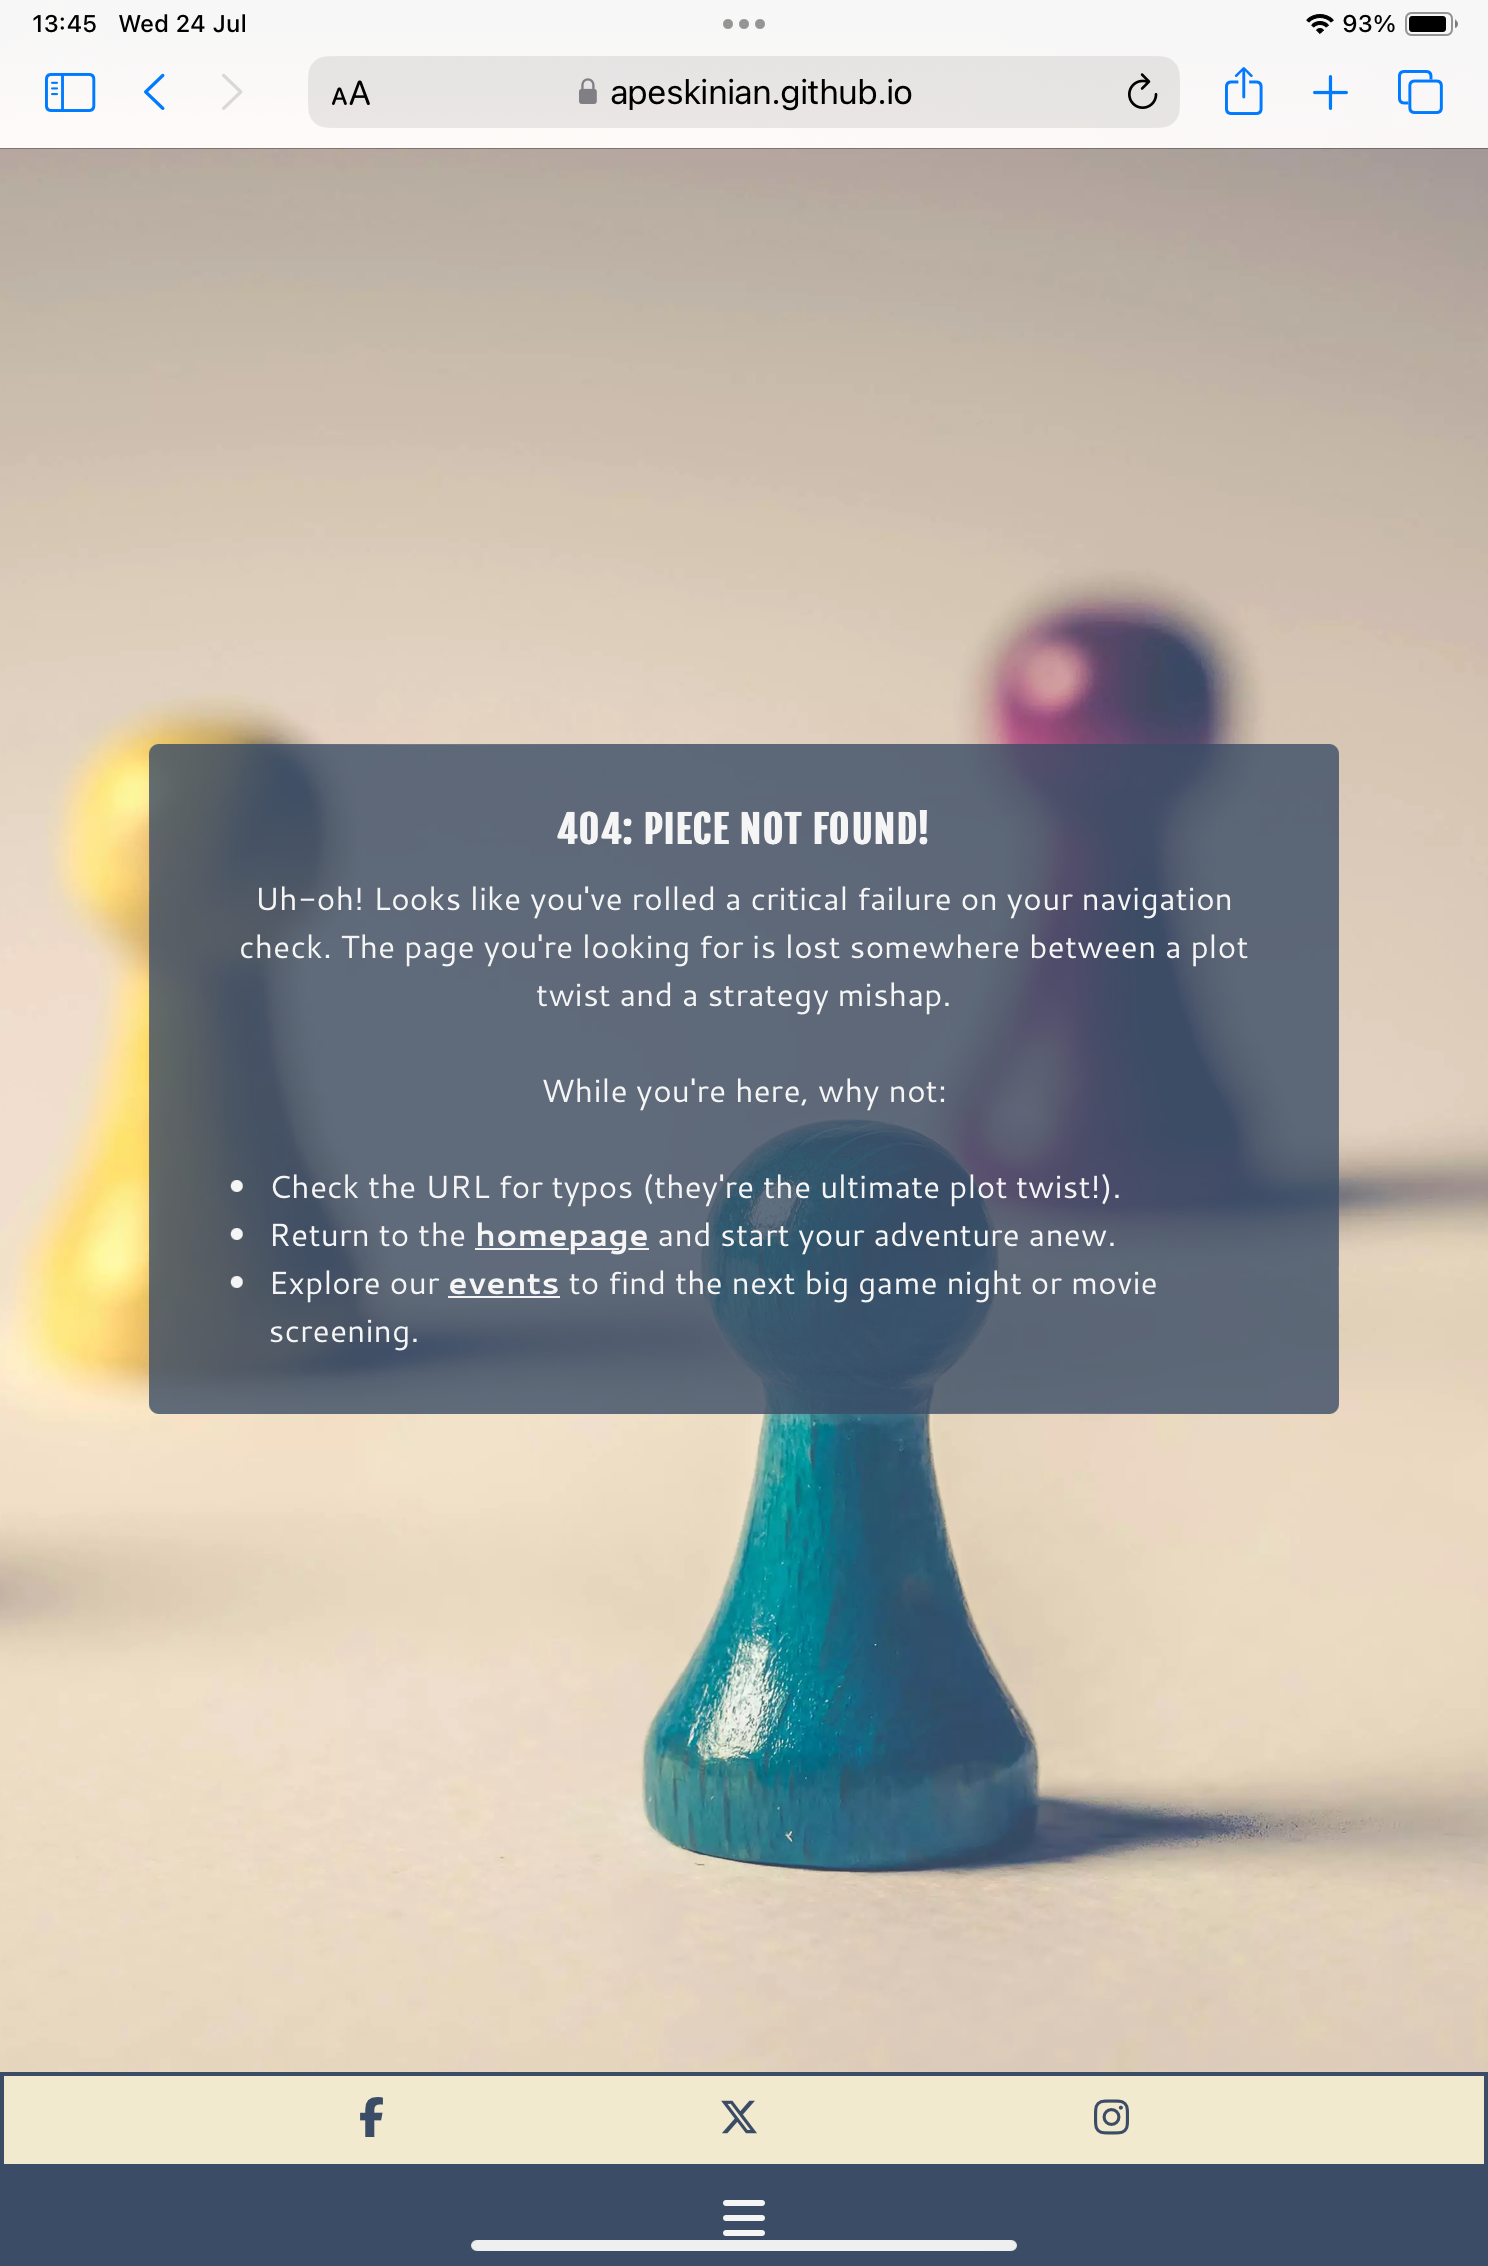
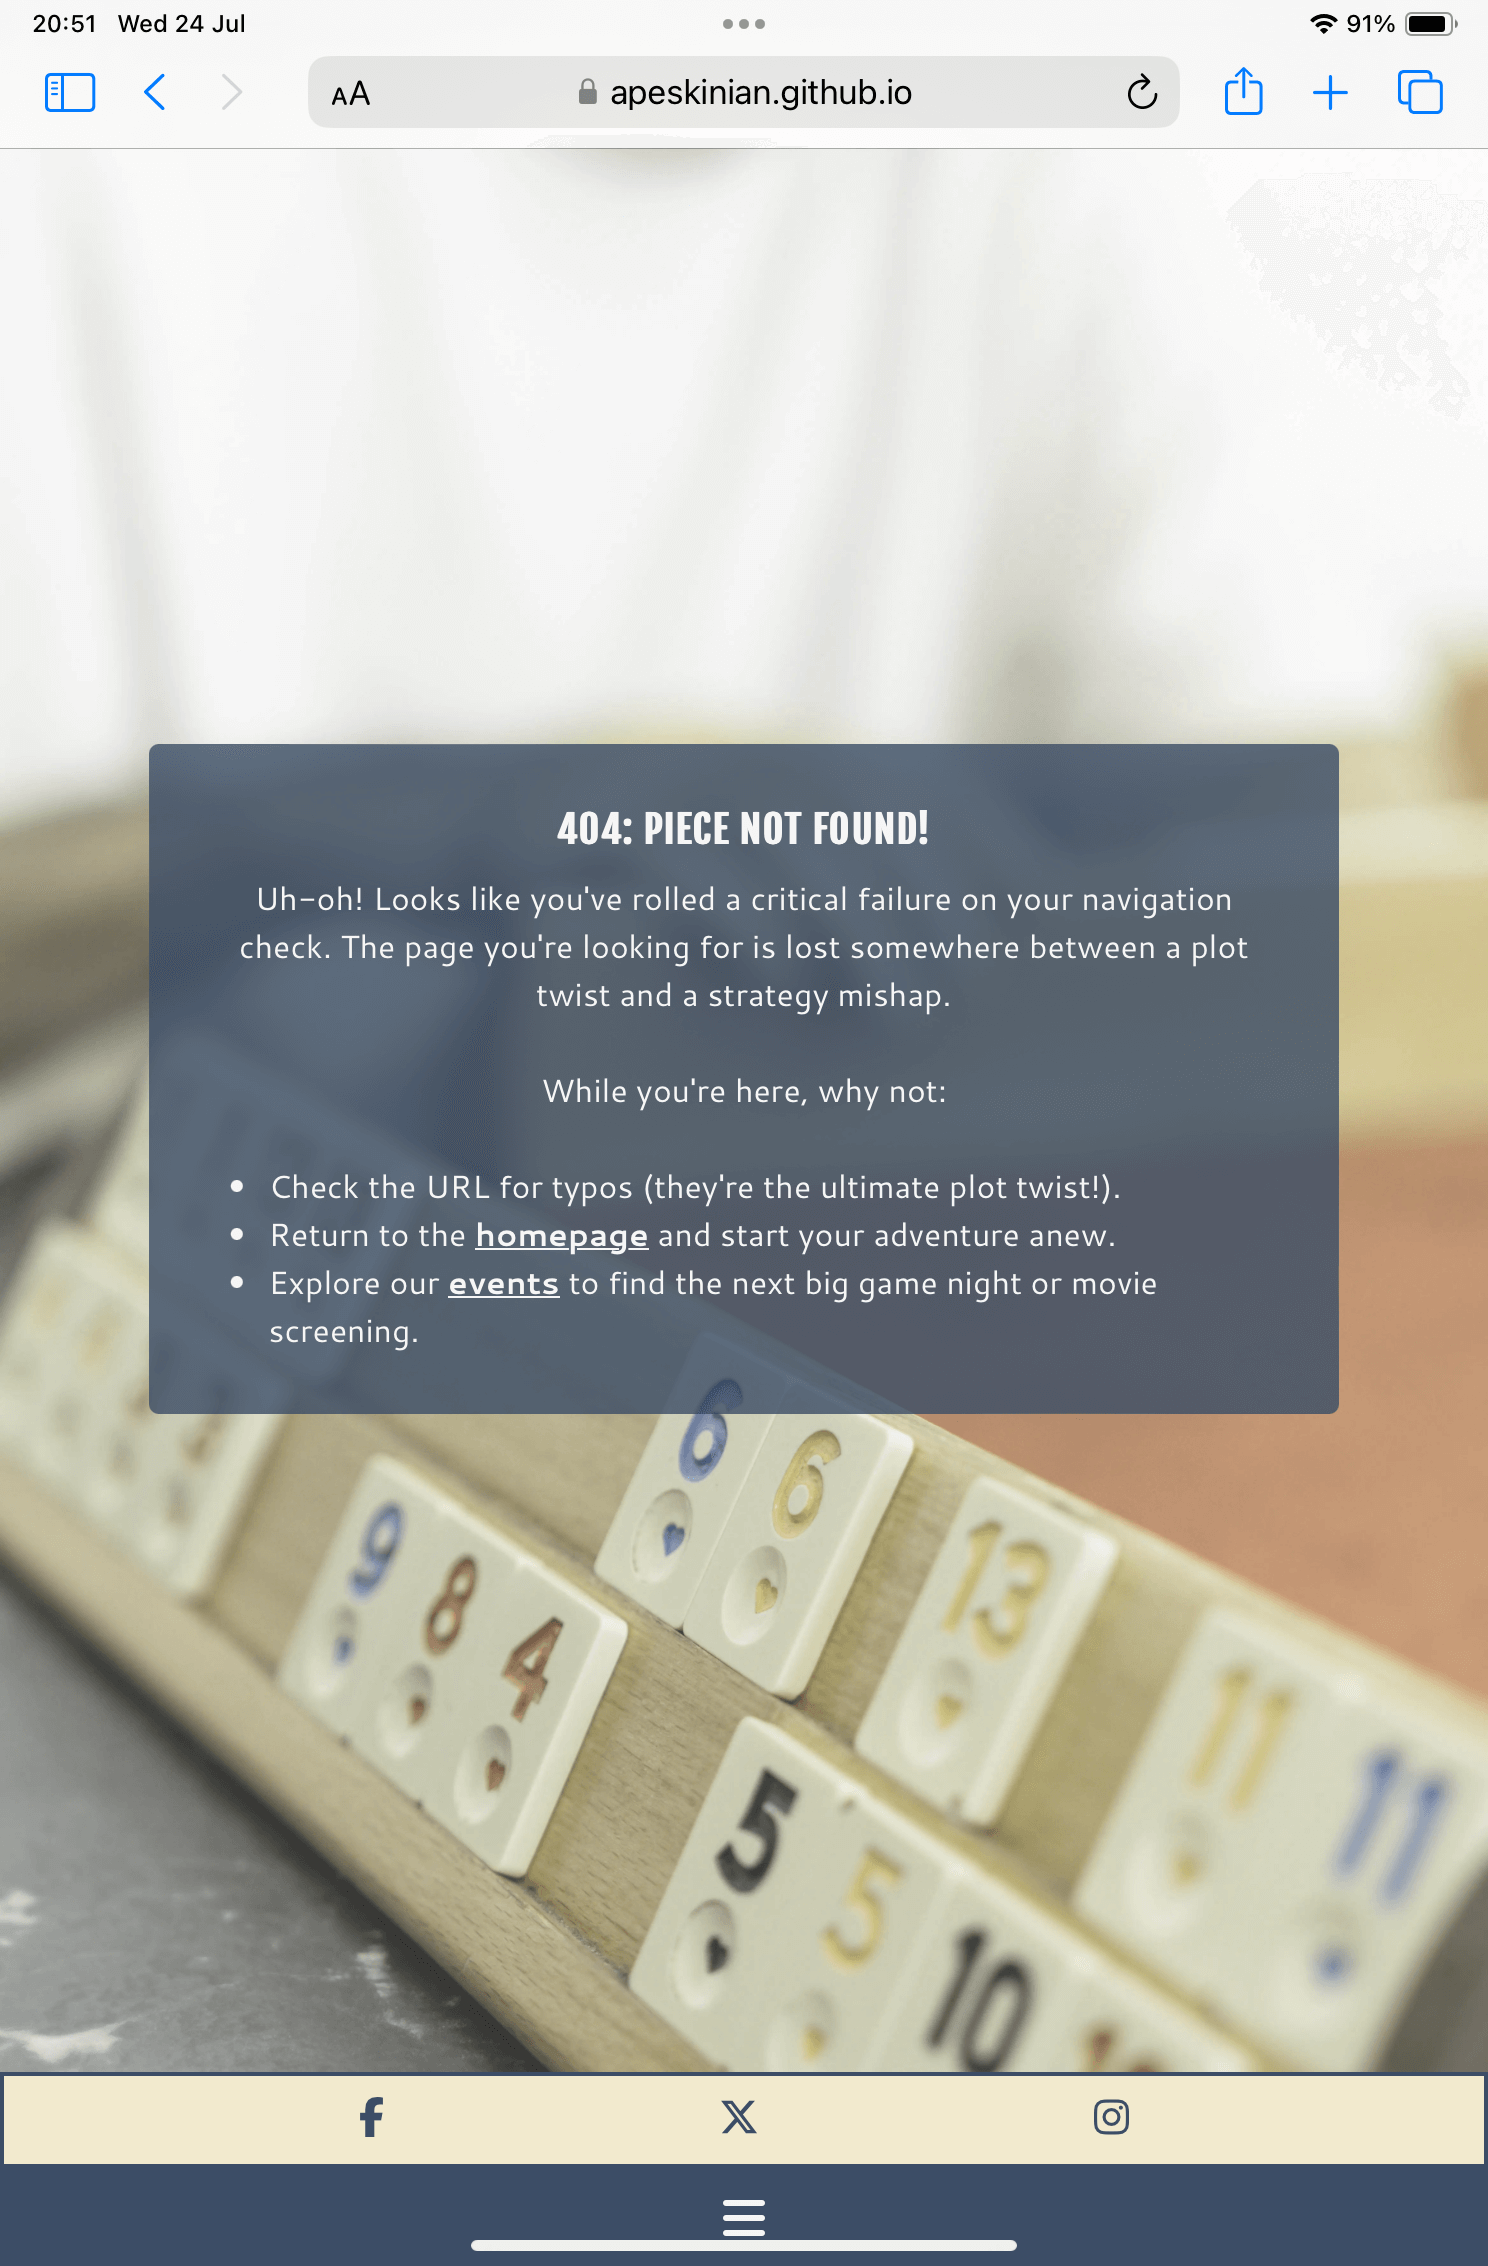
Update iphone and ipad mini resposive screenshots with new screenshots for confirmation and 404 in TESTING.md

diff --git a/TESTING.md b/TESTING.md
@@ -47,7 +47,7 @@ I've tested my deployed project on multiple devices to check for responsiveness 
 | Tablet (DevTools) | ![screenshot](documentation/responsive/tablet-devtools-index.png) | ![screenshot](documentation/responsive/tablet-devtools-upcoming.html.png) | ![screenshot](documentation/responsive/tablet-devtools-newsletter.png) | ![screenshot](documentation/responsive/tablet-devtools-confirmation.png) | ![screenshot](documentation/responsive/tablet-devtools-404.png) | Works as expected |
 | 4k Monitor (DevTools) | ![screenshot](documentation/responsive/4k-devtools-index.png) | ![screenshot](documentation/responsive/4k-devtools-upcoming.png) | ![screenshot](documentation/responsive/4k-devtools-newsletter.png) | ![screenshot](documentation/responsive/4k-devtools-confirmation.png) | ![screenshot](documentation/responsive/4k-devtools-404.png) | Scaling issues beginning |
 | iPhone 15 Pro | ![screenshot](documentation/responsive/mobile-iphone15pro-index.PNG) | ![screenshot](documentation/responsive/mobile-iphone15pro-upcoming.PNG) | ![screenshot](documentation/responsive/mobile-iphone15pro-newsletter.PNG) | ![screenshot](documentation/responsive/mobile-iphone15pro-confirmation.PNG) | ![screenshot](documentation/responsive/mobile-iphone15pro-404.PNG) | Works as expected |
-| iPad Mini | ![screenshot](documentation/responsive/mobile-ipadmini-index.PNG) | ![screenshot](documentation/responsive/mobile-ipadmini-upcoming.PNG) | ![screenshot](documentation/responsive/mobile-ipadmini-newsletter.PNG) | ![screenshot](documentation/responsive/mobile-ipadmini-confirmation.PNG) | ![screenshot](documentation/responsive/mobile-ipadmini-404.PNG) | Works as expected |
+| iPad Mini | ![screenshot](documentation/responsive/mobile-ipadmini-index.PNG) | ![screenshot](documentation/responsive/mobile-ipadmini-upcoming.PNG) | ![screenshot](documentation/responsive/mobile-ipadmini-newsletter.PNG) | ![screenshot](documentation/responsive/mobile-ipadmini-confirmation.png) | ![screenshot](documentation/responsive/mobile-ipadmini-404.PNG) | Works as expected |
 | MacBook Air M3 | ![screenshot](documentation/responsive/laptop-macbookairm3-index.png) | ![screenshot](documentation/responsive/laptop-macbookairm3-upcoming.png) | ![screenshot](documentation/responsive/laptop-macbookairm3-newsletter.png) | ![screenshot](documentation/responsive/laptop-macbookairm3-confirmation.png) | ![screenshot](documentation/responsive/laptop-macbookairm3-404.png) | Works as expected |
 | 2K Desktop Monitor | ![screenshot](documentation/responsive/desktop-1440p-index.png) | ![screenshot](documentation/responsive/desktop-1440p-upcoming.png) | ![screenshot](documentation/responsive/desktop-1440p-newsletter.png) | ![screenshot](documentation/responsive/desktop-1440p-confirmation.png) | ![screenshot](documentation/responsive/desktop-1440p-404.png) | Works as expected |
 
